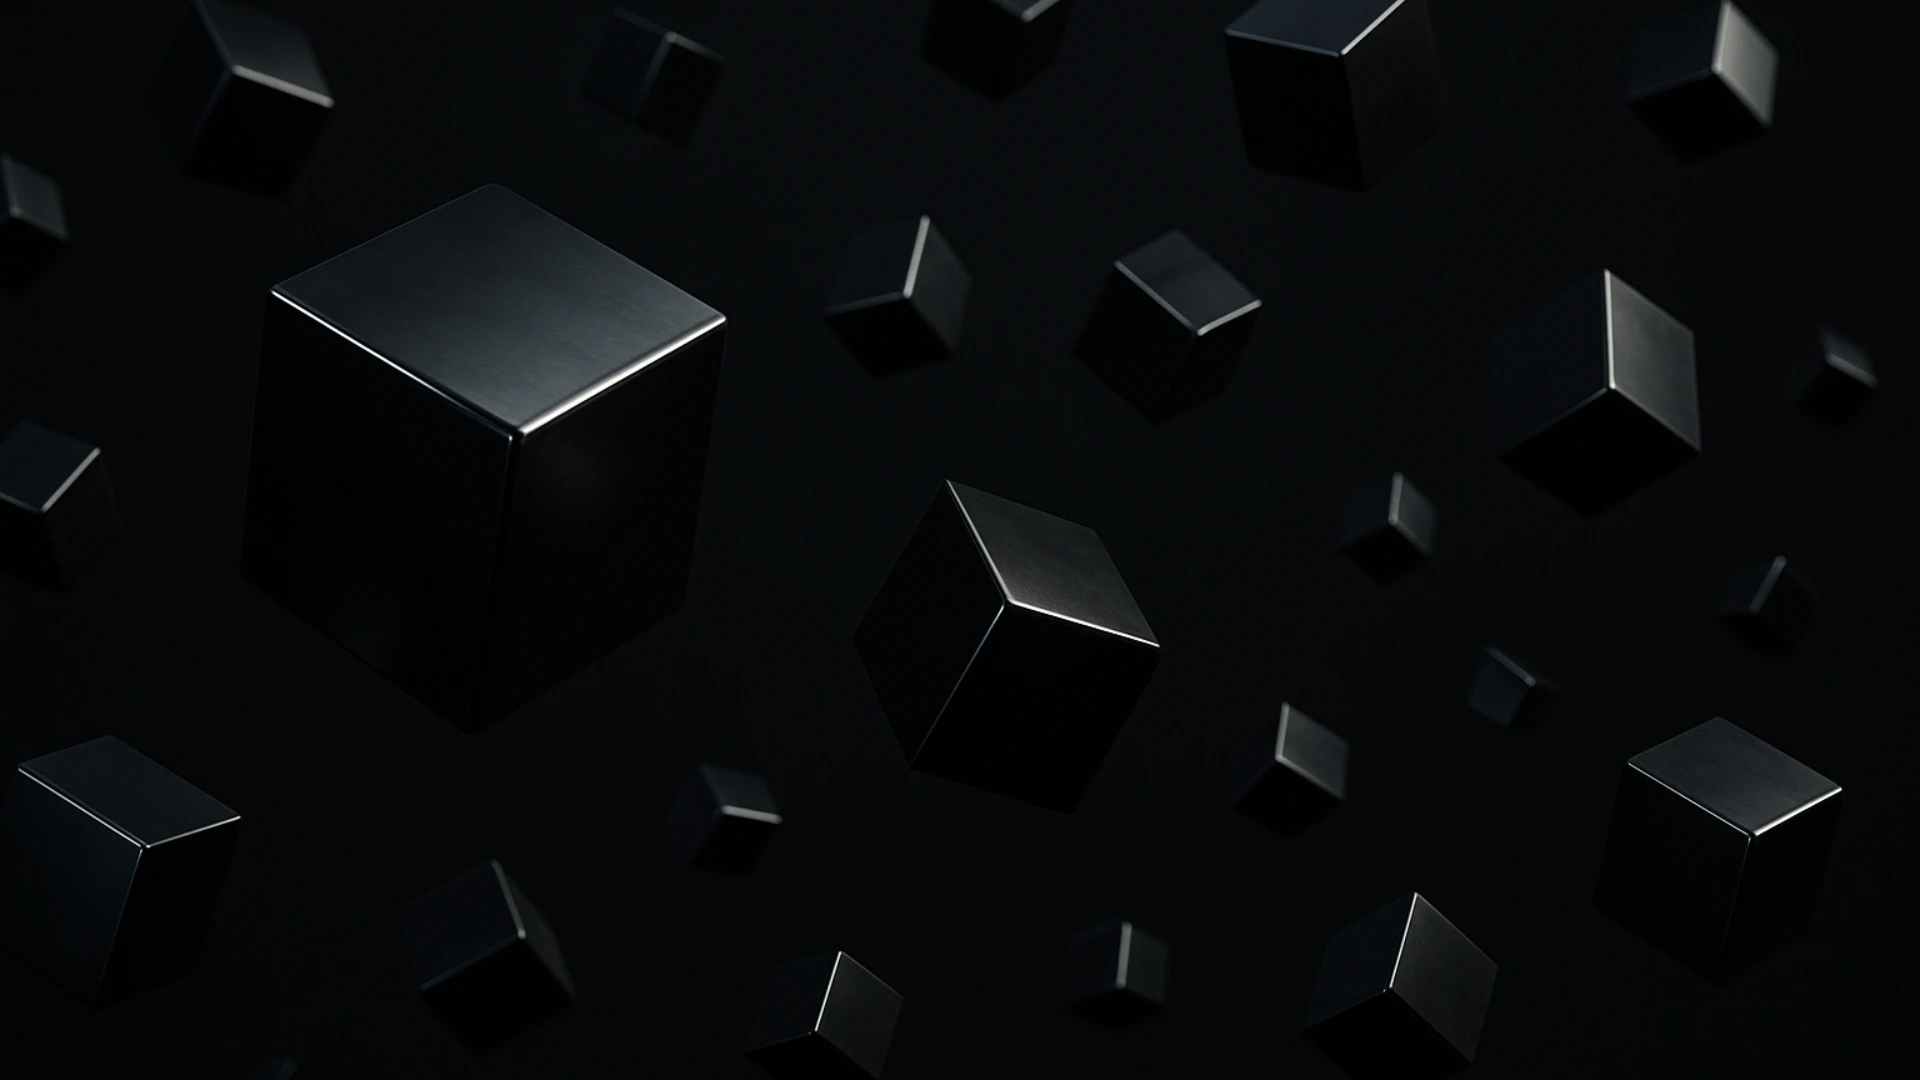
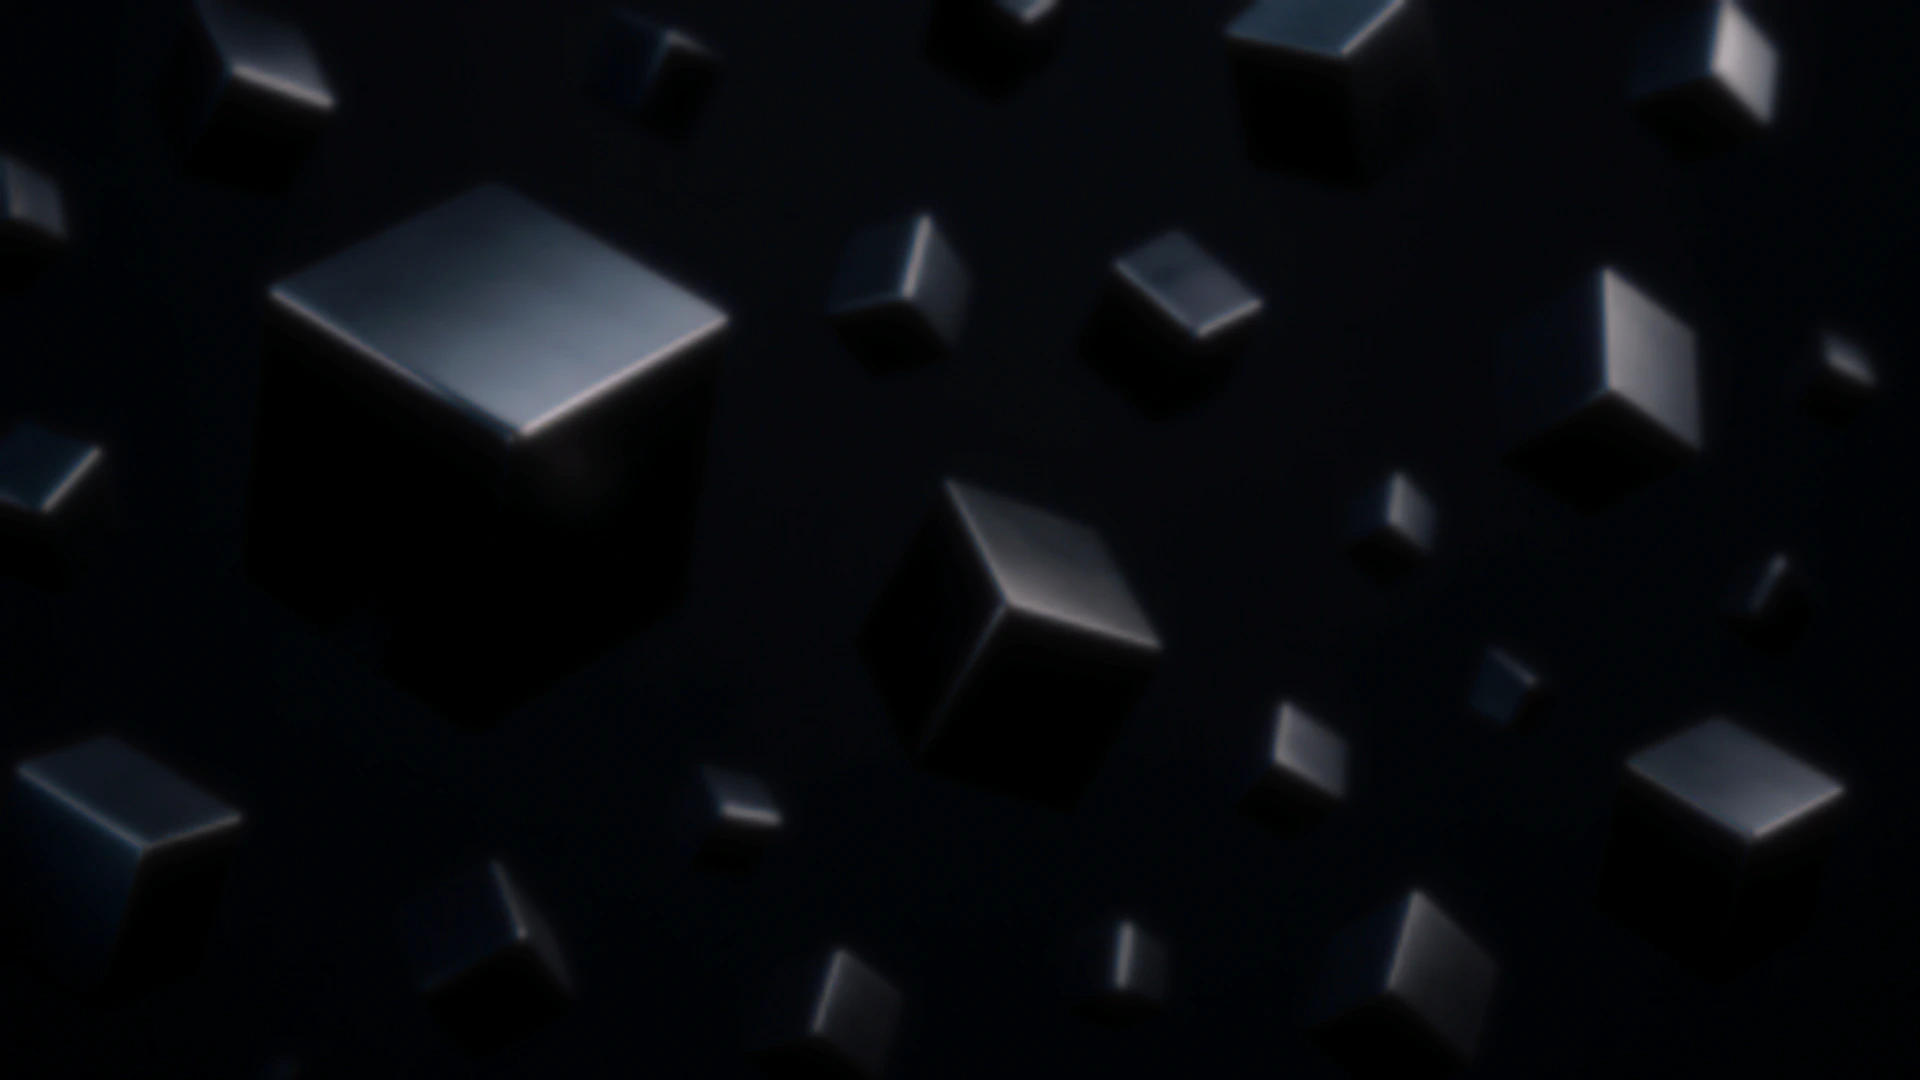
hero sec

diff --git a/src/components/home/Header.jsx b/src/components/home/Header.jsx
@@ -1,0 +1,31 @@
+
+const Header = () => {
+    const navLinks = ["home", "about", "skills", "projects", "contact"];
+    return (
+        <div className="fixed top-0 left-0 right-0 flex items-center justify-start gap-12 p-4 z-100" >
+            <div className="flex items-center gap-2 text-4xl" >
+                <span className="font-primary text-primary">&lt;</span>
+                <a className="font-logo text-primary-foreground" href="#home">MARO</a>
+            </div>
+            <div className="flex items-center gap-6" >
+                {navLinks.map((navLink, i) => {
+                    return (
+                        <a
+                            key={i}
+                            className="text-lg hover:text-primary-foreground active:text-primary capitalize"
+                            href={`#${navLink}`}
+                        >
+                            {navLink}
+                        </a>
+                    )
+                })}
+                <div className="relative flex items-center gap-1">
+                    <span className="font-primary text-primary transform translate-y-px">/</span>
+                    <span className="font-primary text-primary">&gt;</span>
+                </div>
+            </div>
+        </div>
+    );
+};
+
+export default Header;

diff --git a/src/components/home/sections/Hero.jsx b/src/components/home/sections/Hero.jsx
@@ -1,0 +1,25 @@
+import Section from "../Section";
+import heroBg from "../../../assets/images/hero.webp";
+
+const Hero = () => {
+    return (
+        <Section
+            id="home"
+            className="bg-cover bg-center bg-no-repeat"
+            style={{ backgroundImage: `url(${heroBg})` }}
+        >
+            <div className="absolute inset-0 bg-black/60" />
+            <div className="relative flex flex-col gap-8">
+                <h1 className="text-primary-foreground text-6xl">
+                    I build software that actually&nbsp;
+                    <span className="text-primary">ships</span>
+                </h1>
+                <p className="text-secondary-foreground text-4xl max-w-3xl" >
+                    Freelance engineer specializing in web & desktop apps, backend systems, and AI integrations — from prototype to production.
+                </p>
+            </div>
+        </Section>
+    );
+};
+
+export default Hero;

diff --git a/src/components/home/Section.jsx b/src/components/home/Section.jsx
@@ -1,0 +1,23 @@
+
+const Section = ({
+    id,
+    className,
+    style,
+    children
+}) => {
+    return (
+        <section
+            id={id}
+            className={`relative w-full h-screen ${className || ""}`}
+            style={style}
+        >
+            <div className="timeline-line absolute left-timeline top-0 bottom-0 w-[0.5px] bg-primary z-50" />
+            <div className="absolute left-timeline top-timeline-gap -translate-x-1/2 w-2 h-2 rounded-full bg-background border-2 border-primary z-51" />
+            <div className="ml-timeline pt-timeline-gap h-full p-10">
+                {children}
+            </div>
+        </section>
+    );
+};
+
+export default Section;

diff --git a/src/index.css b/src/index.css
@@ -23,10 +23,19 @@
 
     --color-accent: #00ff7b;
     --color-accent-foreground: #001203;
+
+    --spacing-timeline: 17rem;
+    --spacing-timeline-gap: 11rem;
 }
 
 body {
     background-color: var(--color-background);
     color: var(--color-secondary-foreground);
     font-family: var(--font-primary);
+}
+
+/* First section's line starts from the dot, not the top */
+section:first-child > .timeline-line {
+    top: auto;
+    height: calc(100% - var(--spacing-timeline-gap));
 }

diff --git a/src/pages/Home.jsx b/src/pages/Home.jsx
@@ -1,8 +1,13 @@
+import Header from "../components/home/Header";
+import Hero from "../components/home/sections/Hero";
 
 const Home = () => {
     return (
         <div>
-            <h1 className="text-4xl font-logo text-primary-foreground" >MARO</h1>
+            <Header />
+            <div>
+                <Hero />
+            </div>
         </div>
     );
 };
